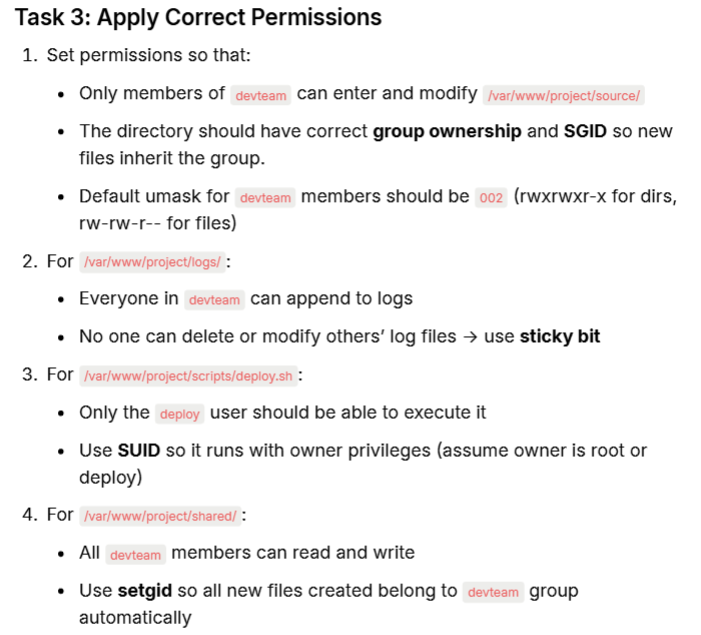
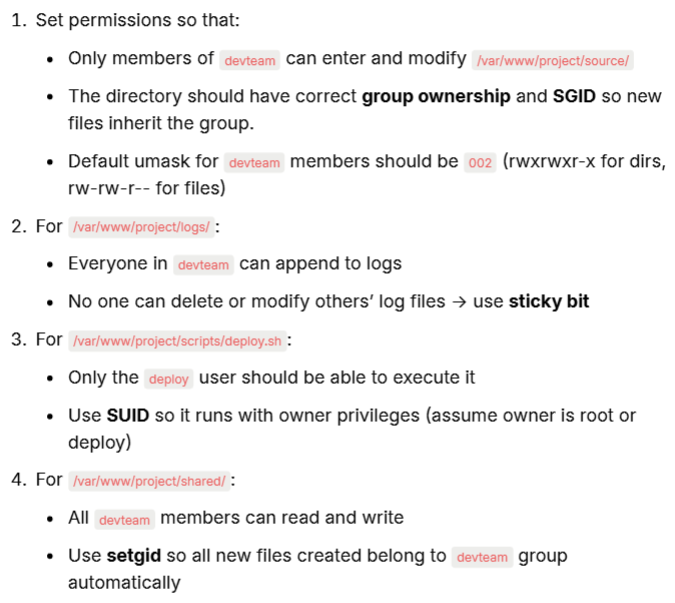
UPDATED

Changed region(s): [[0.0, 0.0, 0.9956, 0.9851]]

diff --git a/DAY-3/assignment/task-3.md b/DAY-3/assignment/task-3.md
@@ -4,7 +4,7 @@
 
 ---
 
-![task-2a](../images/task-2a.png)
+![task-3a](../images/task-3a.png)
 
     ls -ld source/ =  Shows detailed info (permissions, owner, group) of the source directory only.
 
@@ -17,7 +17,7 @@
 
 ---
 
-![task-2b](../images/task-2b.png)
+![task-3b](../images/task-3b.png)
 
     nano /etc/bashrc
 
@@ -31,7 +31,7 @@
 
 ---
 
-![task-2c](../images/task-2c.png)
+![task-3c](../images/task-3c.png)
 
     chmod 3770 logs/ =  sets the following permissions:
     - 3 = SUID + sticky bit
@@ -46,7 +46,7 @@
 
 ---
 
-![task-2d](../images/task-2d.png)
+![task-3d](../images/task-3d.png)
 
     chmod 4750 deploy.sh = 
     - 4 = SUID (script runs with the owner's permissions)
@@ -56,7 +56,7 @@
 
 ---
 
-![task-2e](../images/task-2e.png)
+![task-3e](../images/task-3e.png)
 
     chmod 2770 shared/ = 
     - 2 = setgid (new files inherit the group devteam)
